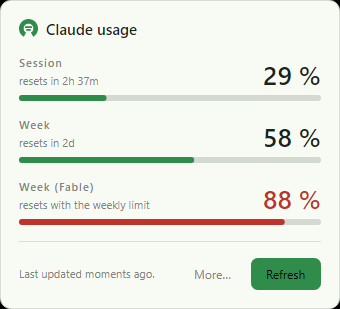
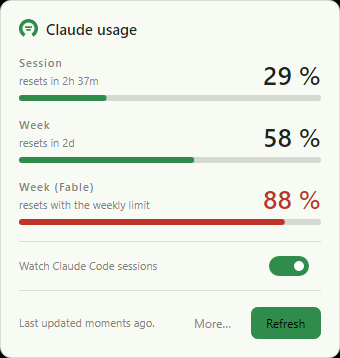
docs: document session watch, working badge and pace warning in the readme
Add the Claude Code sessions and pace warning sections with new
screenshots (working badge, session list, usage card with a notice), and
regenerate the existing ones. The generator now renders the popup with
session watch on, as it ships, and shows a placeholder settings path
instead of the local user's.

diff --git a/tests/ClaudeStatus.App.Tests/ScreenshotGenerator.cs b/tests/ClaudeStatus.App.Tests/ScreenshotGenerator.cs
@@ -10,6 +10,7 @@ using ClaudeStatus.App.Tray;
 using ClaudeStatus.App.Views;
 using ClaudeStatus.Platform;
 using ClaudeStatus.Security;
+using ClaudeStatus.Sessions;
 using ClaudeStatus.Theming;
 using Microsoft.Extensions.Time.Testing;
 
@@ -145,8 +146,24 @@ public class ScreenshotGenerator(HeadlessAppFixture fixture)
                     RenderWidget(Theme(id), taskbar, followSystem: false, showFable: false),
                     Path.Combine(root!, "themes", $"widget-{id}.png"));
             }
+
+            // Claude Code sessions: the badge on the widget, the list in the popup,
+            // and the hover card carrying a pace warning.
+            Save(
+                RenderWidget(Theme("claude"), TrayBackground.Dark, followSystem: true, showFable: false, Sessions()),
+                Path.Combine(root!, "taskbar-widget-working.png"));
+            Save(RenderDetails(Theme("claude"), Sessions()), Path.Combine(root!, "window-details-sessions.png"));
+            Save(RenderUsageCard(Theme("claude")), Path.Combine(root!, "usage-card-notice.png"));
         });
     }
+
+    /// <summary>Two sessions busy and one waiting, as the session shots show them.</summary>
+    private static IReadOnlyList<ClaudeSession> Sessions() =>
+    [
+        new ClaudeSession("s1", "C:\\Proyectos\\claude-status", Now.AddMinutes(-42), Now.AddMinutes(-3), IsWorking: true),
+        new ClaudeSession("s2", "C:\\Proyectos\\website", Now.AddMinutes(-12), Now.AddMinutes(-1), IsWorking: true),
+        new ClaudeSession("s3", "C:\\Proyectos\\notes", Now.AddHours(-2), Now.AddMinutes(-9)),
+    ];
 
     private static Theme Theme(string id) => ThemeCatalog.BuiltIn.Single(t => t.Id == id);
 
@@ -185,7 +202,7 @@ public class ScreenshotGenerator(HeadlessAppFixture fixture)
         return frame;
     }
 
-    private static WriteableBitmap RenderDetails(Theme theme)
+    private static WriteableBitmap RenderDetails(Theme theme, IReadOnlyList<ClaudeSession>? sessions = null)
     {
         // Fully opaque, which is not the app's default. The default 10 % lets the
         // black the headless session clears to show through, and the readme would
@@ -199,6 +216,15 @@ public class ScreenshotGenerator(HeadlessAppFixture fixture)
         using var viewModel = new DetailsViewModel(
             monitor, () => new AppSettings(), TestLocalizer.English(), clock);
         viewModel.Apply(Snapshot());
+
+        // The watch as it ships: on (AppSettings.SessionWatch). A switch drawn off in
+        // the readme would advertise the wrong default.
+        viewModel.ApplySessionWatch(true);
+        if (sessions is not null)
+        {
+            viewModel.ShowSessions = true;
+            viewModel.ApplySessions(sessions, Now);
+        }
 
         return Render(new DetailsWindow { DataContext = viewModel });
     }
@@ -230,13 +256,21 @@ public class ScreenshotGenerator(HeadlessAppFixture fixture)
     }
 
     private static WriteableBitmap RenderWidget(
-        Theme theme, TrayBackground taskbar, bool followSystem, bool showFable)
+        Theme theme,
+        TrayBackground taskbar,
+        bool followSystem,
+        bool showFable,
+        IReadOnlyList<ClaudeSession>? sessions = null)
     {
         ThemeApplier.Apply(Application.Current!, theme, string.Empty, osdTransparency: 0d);
 
         var viewModel = new TaskbarWidgetViewModel(TestLocalizer.English());
         viewModel.Configure(80d, showFable: showFable, followSystem: followSystem);
         viewModel.Update(Snapshot(), IndicatorAlert.None, Now);
+        if (sessions is not null)
+        {
+            viewModel.UpdateSessions(sessions, Now);
+        }
 
         var window = new TaskbarWidgetWindow
         {
@@ -252,6 +286,25 @@ public class ScreenshotGenerator(HeadlessAppFixture fixture)
 
         TaskbarInk.Apply(window.Resources, taskbar);
         return Render(window);
+    }
+
+    private static WriteableBitmap RenderUsageCard(Theme theme)
+    {
+        ThemeApplier.Apply(Application.Current!, theme, string.Empty, osdTransparency: 0d);
+
+        var l = TestLocalizer.English();
+        var viewModel = new TaskbarWidgetViewModel(l);
+        viewModel.Configure(80d, showFable: false);
+        viewModel.Update(Snapshot(), IndicatorAlert.None, Now);
+        viewModel.ShowSessions = true;
+        viewModel.UpdateSessions(Sessions(), Now);
+        viewModel.NoticeText = l.Format(
+            "Velocity_Alert",
+            l["Velocity_Window_Session"],
+            DetailsViewModel.DescribeAge(l, TimeSpan.FromMinutes(48)),
+            DetailsViewModel.DescribeAge(l, new TimeSpan(2, 37, 0)));
+
+        return Render(new UsageCardWindow { DataContext = viewModel });
     }
 
     private static void Save(WriteableBitmap bitmap, string path)
@@ -275,7 +328,10 @@ public class ScreenshotGenerator(HeadlessAppFixture fixture)
             new StubAutostart(),
             new StubPlatformInfo(),
             new UnsupportedTaskbarHost(),
-            new JsonConfigStore(Path.Combine(Path.GetTempPath(), "claudestatus-shotgen")),
+            // Shown in the window's footer, so it is what the readme prints: a
+            // placeholder, never the path of whoever regenerated the images. The
+            // store only touches the disk on Save, which a render never does.
+            new JsonConfigStore(@"C:\Users\you\AppData\Roaming\ClaudeStatus"),
             TestLocalizer.English(),
             new ClaudeStatus.Localization.JsonLanguageStore(
                 Path.Combine(Path.GetTempPath(), "claudestatus-shotgen")),

diff --git a/README.md b/README.md
@@ -11,6 +11,10 @@ window.
 The number lives in the tray icon itself, so the answer to "do I have enough
 session left to start this?" is already on screen. Click it for the detail.
 
+It also watches your **Claude Code sessions** — which ones are working, which
+are waiting for you, and a notification when one needs you — and warns you when
+usage is climbing fast enough to hit a limit before it resets.
+
 > **Looking for the detail?** [`docs/manual.md`](docs/manual.md) is the full
 > handbook — how it works, every setting, building, packaging, the rules the code
 > follows, and troubleshooting.
@@ -109,7 +113,7 @@ The widget is themed, so the card follows whichever theme you pick:
 </p>
 
 Hovering the widget opens a card with all three limits and their reset times,
-whatever the widget itself is showing.
+whatever the widget itself is showing, plus your Claude Code sessions.
 
 - **Left click** — the details popup. Click again to dismiss it.
 - **Right click** — Details, Full report…, Show ▸ (switch metric), Refresh,
@@ -118,7 +122,49 @@ whatever the widget itself is showing.
 | | |
 | --- | --- |
 | <img src="docs/screenshots/report/report-en.png" alt="The full report window" width="330"> | <img src="docs/screenshots/window-config.png" alt="The configuration window" width="300"> |
-| **Full report** — every window the endpoint returned, its own severity labels, exact reset timestamps, and the spend and credit blocks. | **Config** — credential, language, theme, threshold, poll interval, autostart. |
+| **Full report** — every window the endpoint returned, its own severity labels, exact reset timestamps, and the spend and credit blocks. | **Config** — credential, language, theme, threshold, poll interval, autostart, session watch. |
+
+### Claude Code sessions
+
+ClaudeStatus also keeps an eye on your Claude Code sessions, so you can start a
+long task, switch to something else, and hear about it when it is your turn
+again.
+
+| | |
+| --- | --- |
+| ![Taskbar widget with a badge showing 2 working sessions](docs/screenshots/taskbar-widget-working.png) | **Working badge** *(Windows widget)* — a breathing badge on the mark counts the sessions with a turn in progress. It is gone when none are. |
+| <img src="docs/screenshots/window-details-sessions.png" alt="The details popup listing three sessions with their state, age and a notify switch each" width="300"> | **Session list** — in the details popup and the hover card: each session's folder, whether it is working or waiting for you, and for how long. One switch watches sessions at all; one per row silences a session you are sitting in front of anyway. |
+
+- **Notifications** — when a session finishes a turn or closes, you get told.
+  On Windows that is a toast (or a tray balloon on a machine where the app is not
+  installed), and **clicking it brings that session's terminal window to the
+  front**. Nothing is shown while that terminal already has focus.
+  On macOS and Linux the same message appears as a card near the tray.
+- **How it knows** — while it is running, ClaudeStatus adds its own hooks to
+  Claude Code's `settings.json` and removes them when it quits. Hooks you wrote
+  yourself are never touched. Turn it all off in **Config → Sessions**.
+- **Interrupting with Esc** — Claude Code tells hooks nothing when you interrupt
+  a turn, so an interrupted session shows as working until Claude Code reports
+  its prompt idle, about a minute later.
+
+Focusing moves a window, not a tab: two sessions in tabs of the same terminal
+bring up the same window.
+
+### The pace warning
+
+<img src="docs/screenshots/usage-card-notice.png" alt="The usage card with a warning that the session limit runs out in about 48 minutes, before it resets" width="340" align="right">
+
+If usage is climbing fast enough to run a window out **before it resets**, a card
+pops up by the tray with the estimate — on every platform, whichever indicator
+you use — and the details popup keeps the same sentence as a banner while the
+pace holds. At most once every fifteen minutes, and it never takes focus.
+
+It is deliberately hard to trigger: it needs a real, sustained climb, not one
+large request, and the weekly window also has to be spending ahead of the
+calendar. The rules are in the [manual](docs/manual.md#the-pace-warning). Switch
+it off in **Config → Behaviour**.
+
+<br clear="right">
 
 ### Languages
 
